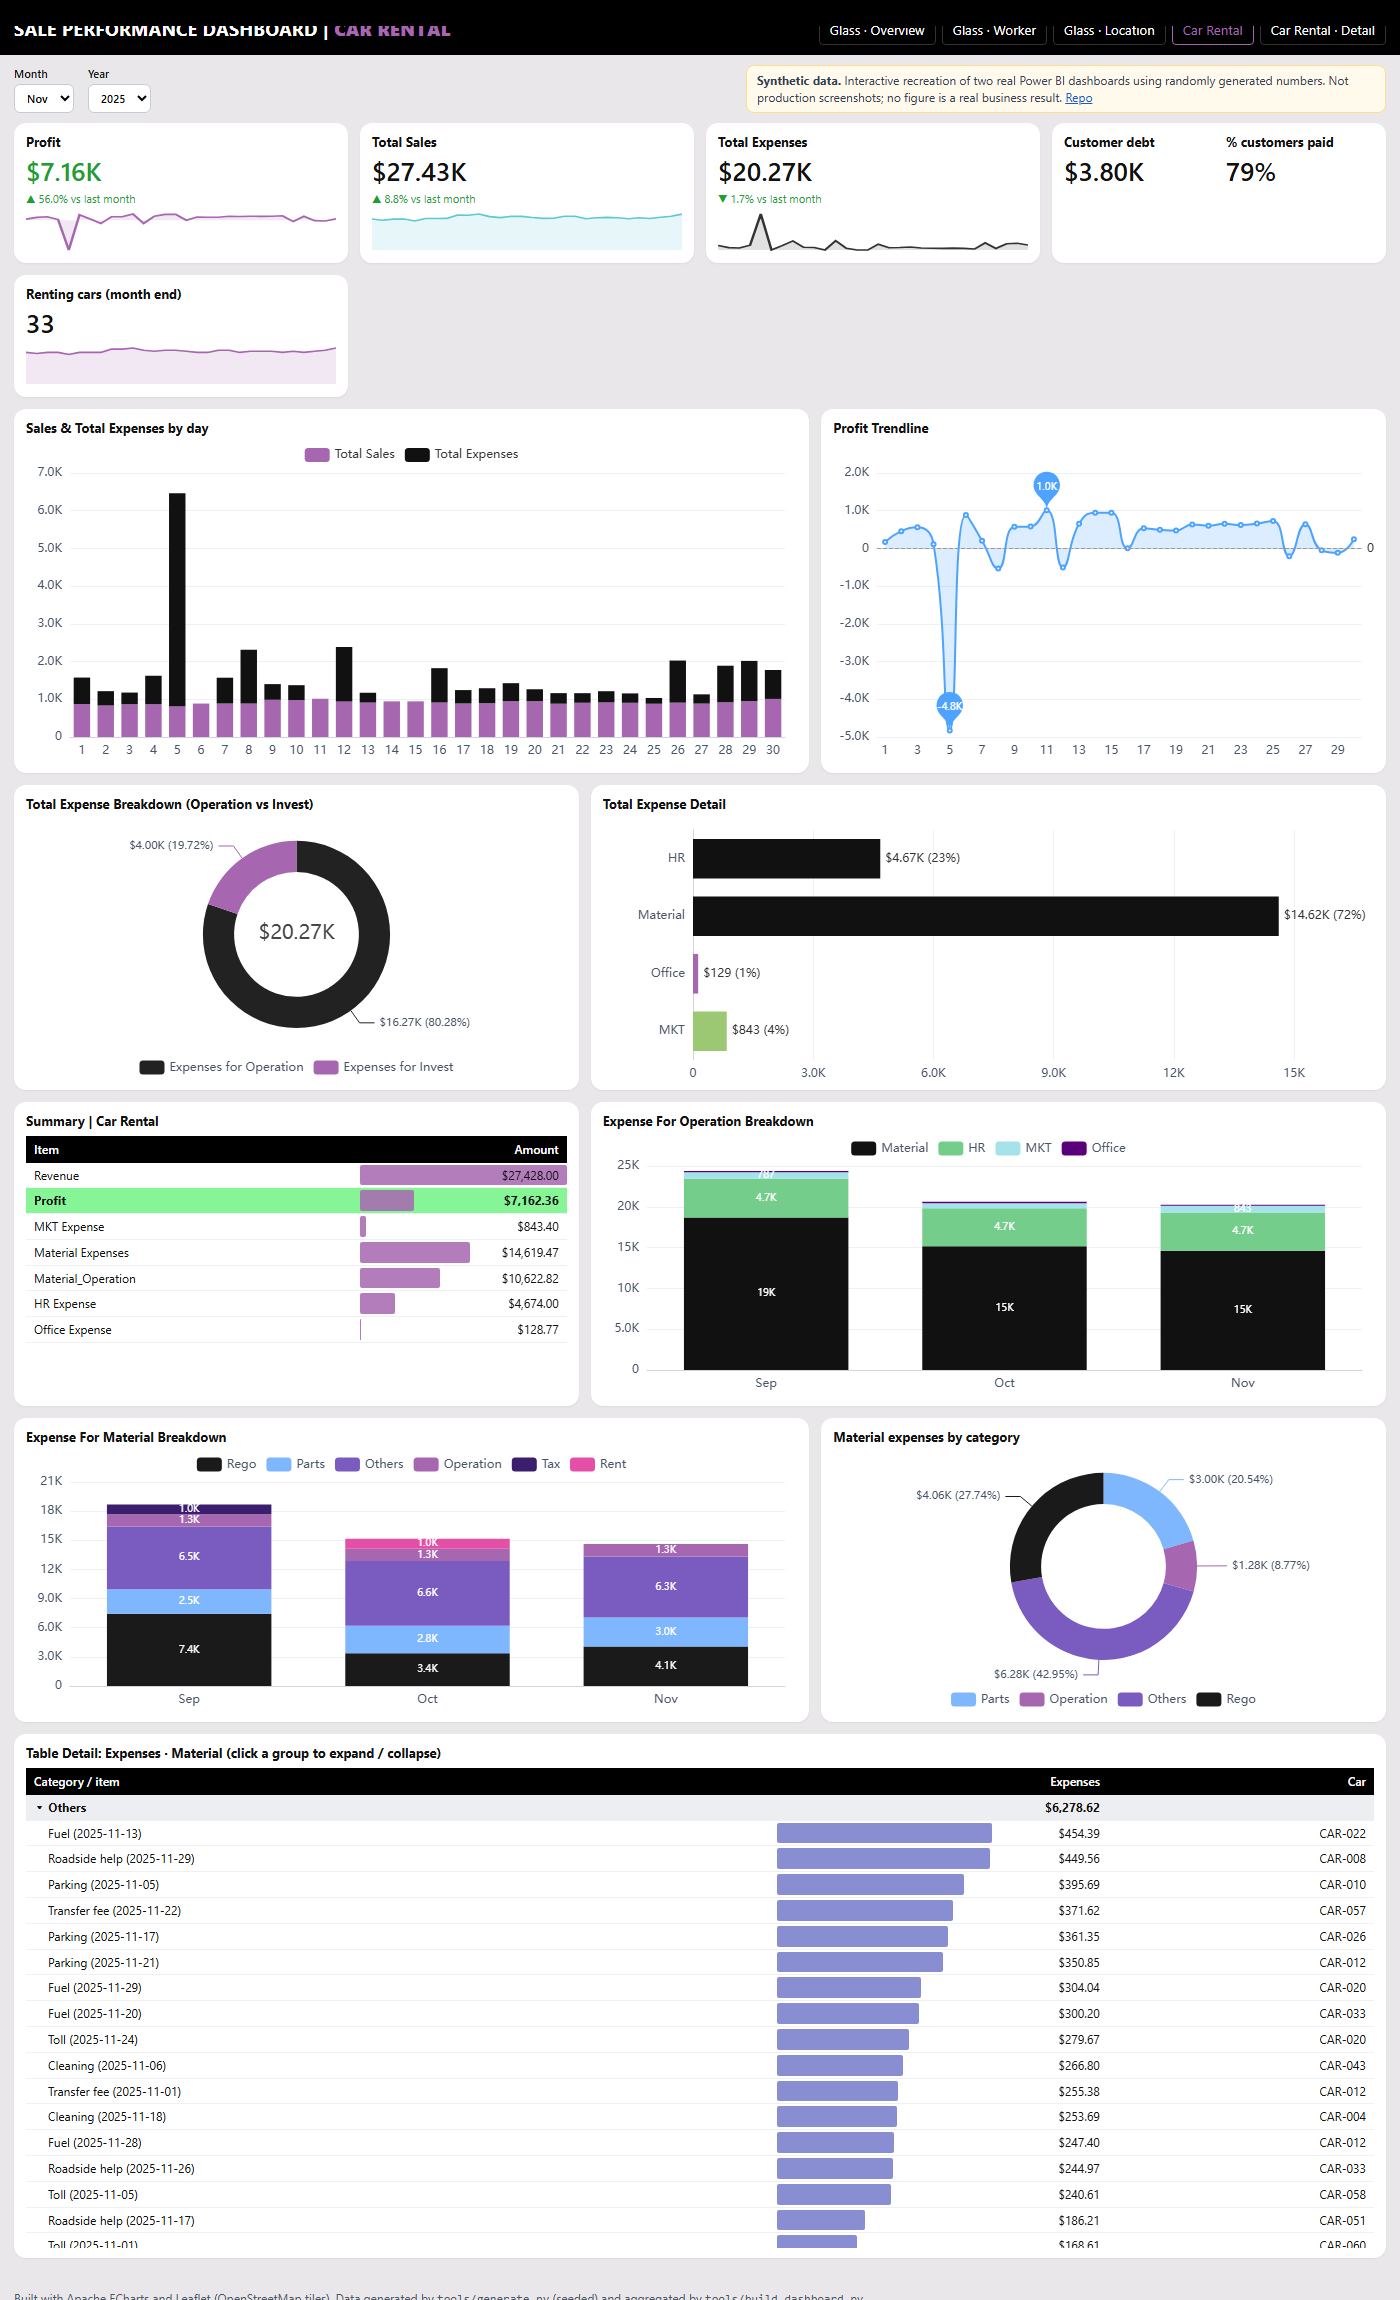
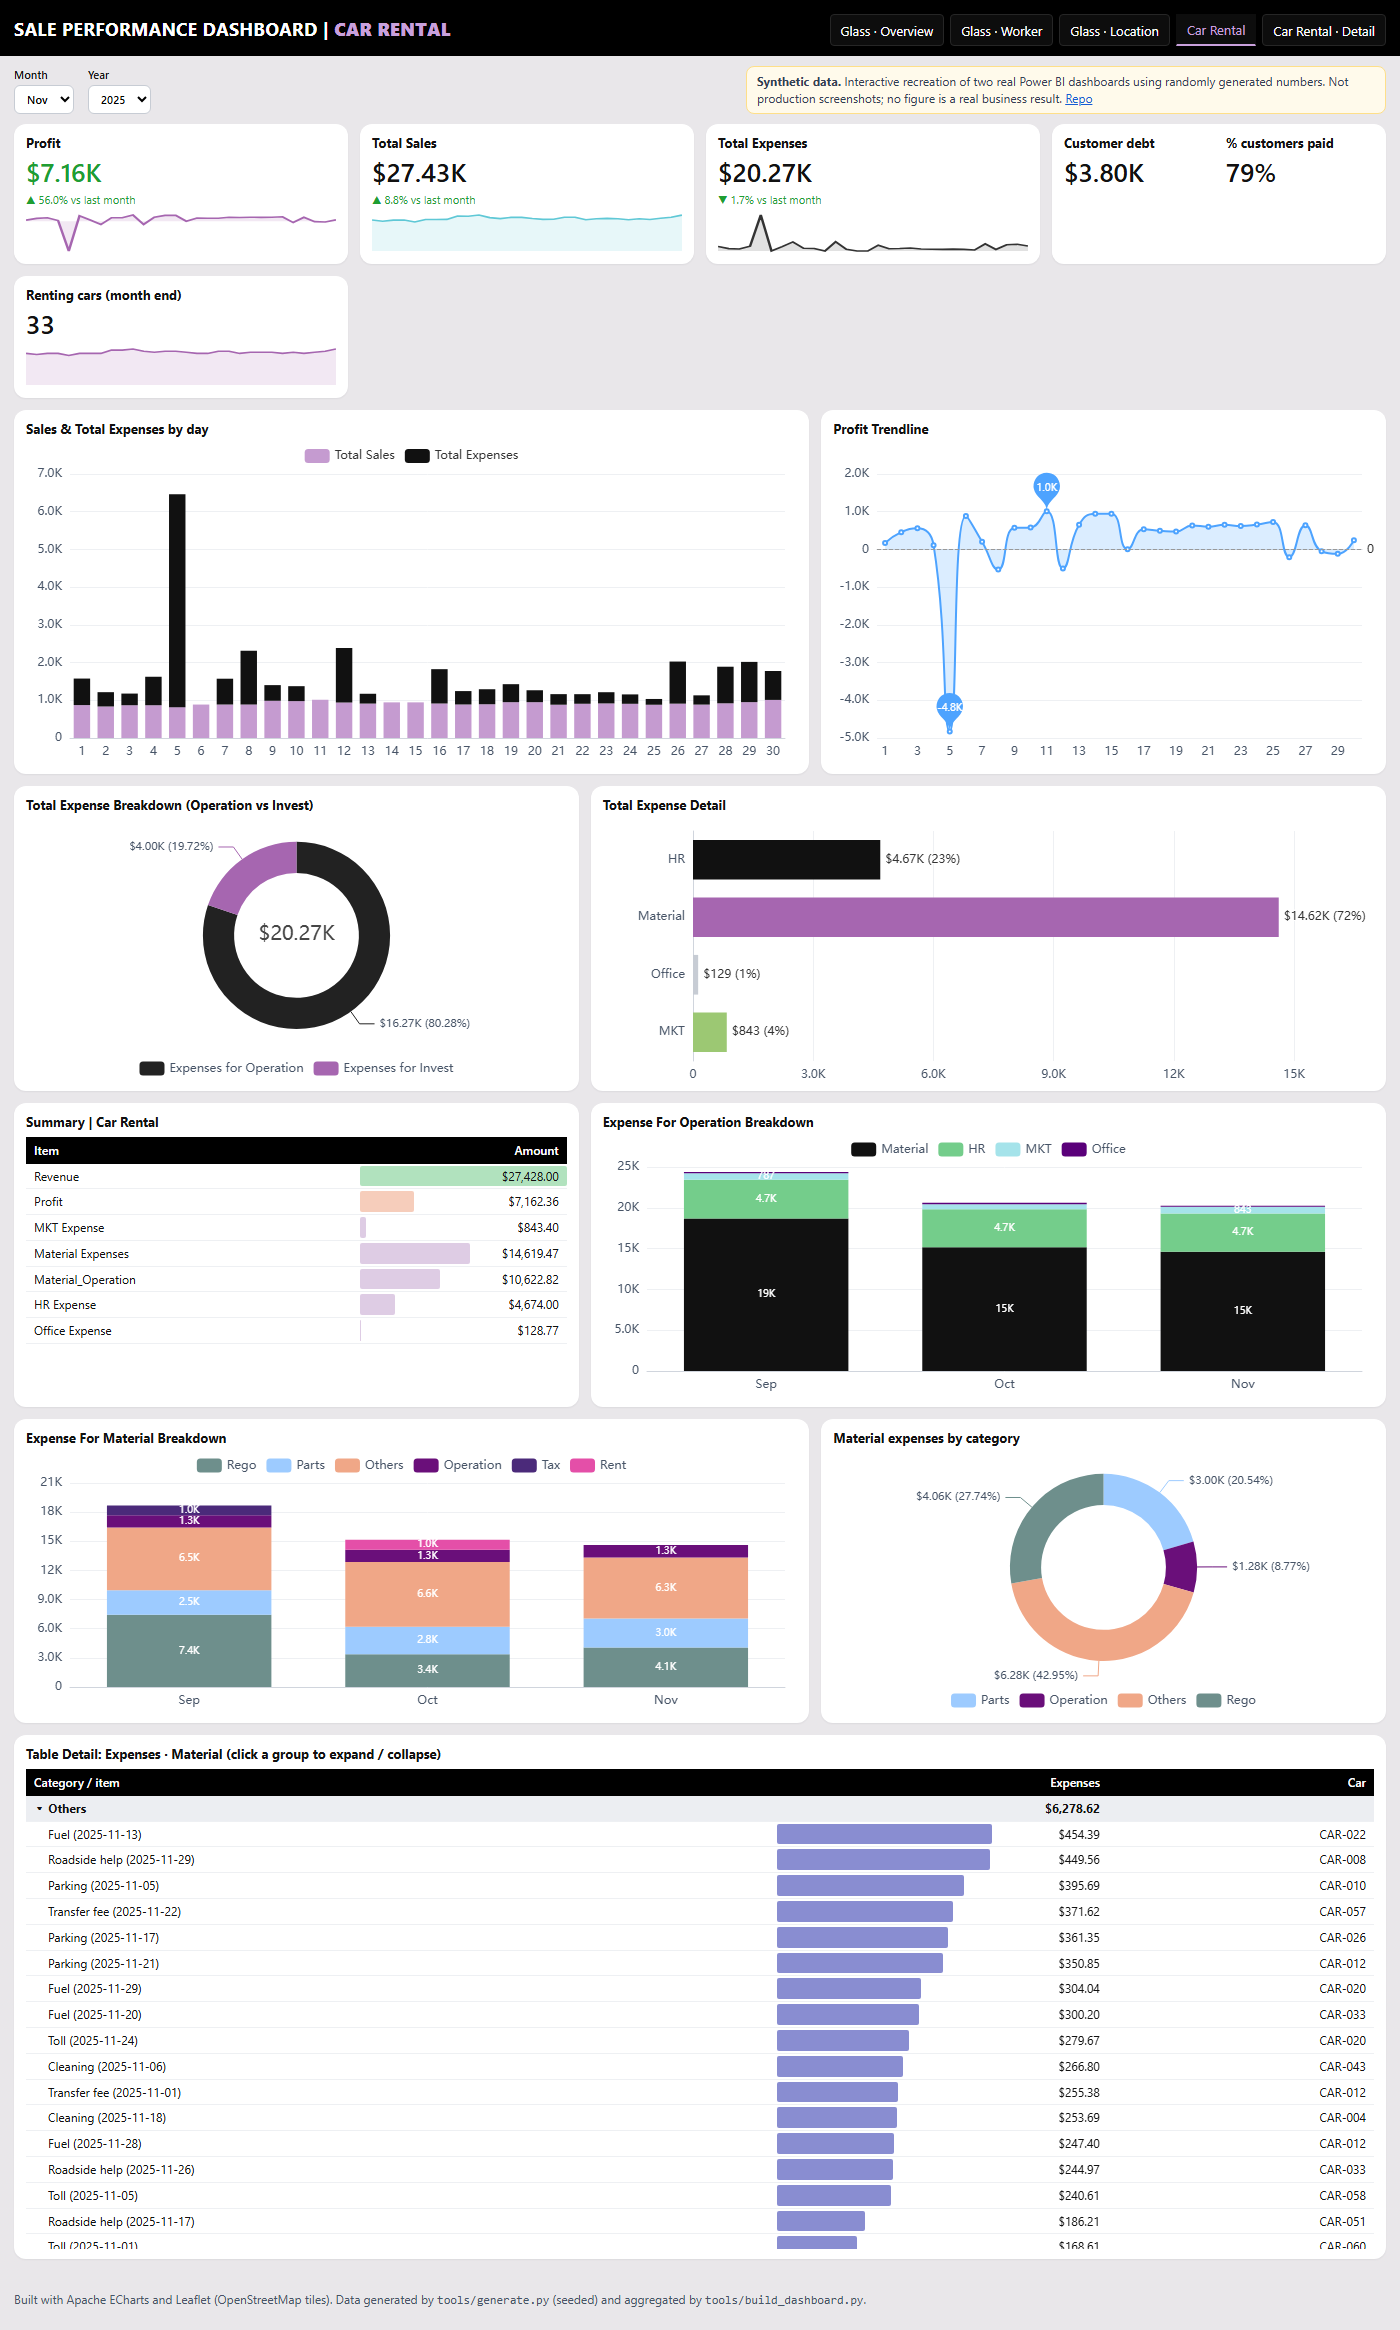
Match real Power BI color scheme: glass sidebar/blue-grey theme, car rental purple/black palette; fix header scroll

diff --git a/docs/index.html b/docs/index.html
@@ -10,14 +10,24 @@
   :root{--ink:#111;--muted:#667085;--line:#e4e7ec;--card:#fff;--accent:#ff5500;--page:#c9d6df;--good:#1f9e32;--bad:#d92d20}
   body.t-car{--accent:#a666b0;--page:#e9e7ea}
   *{box-sizing:border-box}
-  html{background:#000}
-  body{margin:0;background:var(--page);color:var(--ink);font:13px/1.4 "Segoe UI",system-ui,-apple-system,Roboto,sans-serif}
+  body{margin:0;min-height:100vh;background:var(--page);color:var(--ink);font:13px/1.4 "Segoe UI",system-ui,-apple-system,Roboto,sans-serif}
   .top{background:#000;color:#fff;padding:14px 14px 10px;display:flex;flex-wrap:wrap;gap:10px;align-items:center;justify-content:space-between}
   .top h1{margin:0;font-size:18px;letter-spacing:.3px;font-weight:700}
   .top h1 b{color:var(--accent)}
   .nav{display:flex;gap:6px;flex-wrap:wrap}
   .nav button{background:#000;color:#fff;border:1px solid #333;border-radius:4px;padding:6px 10px;font:600 12px inherit;font-family:inherit;cursor:pointer}
   .nav button[aria-selected="true"]{color:var(--accent);border-color:var(--accent)}
+  body.t-car{--accent:#c9a0dc}
+  body.t-car .nav button{background:#0d0d0d;border-color:#262626;font-size:13px}
+  body.t-car .nav button[aria-selected="true"]{border-color:#0d0d0d;border-bottom:2px solid #c9a0dc;border-radius:0}
+  .side{display:none}
+  body.t-glass .side{display:flex;position:fixed;left:0;top:0;bottom:0;width:54px;background:#000;flex-direction:column;align-items:center;gap:16px;padding-top:78px;z-index:5}
+  .side button{width:38px;height:38px;border-radius:10px;border:0;cursor:pointer;display:grid;place-items:center;padding:0}
+  .side button[aria-selected="true"]{outline:2px solid #fff;outline-offset:1px}
+  body.t-glass .top,body.t-glass .bar,body.t-glass .wrap,body.t-glass footer{margin-left:54px}
+  body.t-glass .top{background:transparent;color:#111;padding:14px 14px 0}
+  body.t-glass .nav button{background:#fff;color:#111;border-color:#b5c3cd}
+  body.t-glass .nav button[aria-selected="true"]{background:#111;color:#fff;border-color:#111}
   .bar{display:flex;flex-wrap:wrap;gap:14px;align-items:end;justify-content:space-between;padding:10px 14px}
   .bar .f{display:flex;gap:14px;align-items:end}
   .bar label{display:flex;flex-direction:column;font-size:11px;font-weight:600;gap:2px}
@@ -53,6 +63,11 @@
 </style>
 </head>
 <body class="t-glass">
+<div class="side" role="tablist" aria-label="Glass pages">
+  <button data-p="g-over" title="Overview" style="background:#7a5c4b" aria-selected="true"><svg width="20" height="20" viewBox="0 0 24 24" fill="none" stroke="#fff" stroke-width="1.8"><rect x="5" y="3" width="14" height="18" rx="2"/><path d="M9 8h6M9 12h6M9 16h4"/></svg></button>
+  <button data-p="g-loc" title="Location" style="background:#6b8f4e" aria-selected="false"><svg width="20" height="20" viewBox="0 0 24 24" fill="none" stroke="#fff" stroke-width="1.8"><path d="M3 11l9-7 9 7v9H3z"/><path d="M10 20v-6h4v6"/></svg></button>
+  <button data-p="g-work" title="Worker" style="background:#51697f" aria-selected="false"><svg width="20" height="20" viewBox="0 0 24 24" fill="none" stroke="#fff" stroke-width="1.8"><circle cx="12" cy="8" r="4"/><path d="M4 21c1-5 4-7 8-7s7 2 8 7"/></svg></button>
+</div>
 <div class="top">
   <h1 id="title">SALES PERFORMANCE DASHBOARD | <b>OVERVIEW</b></h1>
   <div class="nav" role="tablist">
@@ -201,7 +216,7 @@ function tbl(cols,rows,o){
   o=o||{};var mx={};cols.forEach(function(c,i){if(c.bar){mx[i]=Math.max.apply(null,rows.map(function(r){return Math.abs(r.v[i])||0;}).concat([1e-9]));}});
   var h="<table><thead><tr>"+cols.map(function(c,i){return '<th data-i="'+i+'">'+c.t+"</th>";}).join("")+"</tr></thead><tbody>";
   rows.forEach(function(r){h+="<tr"+(r.cls?' class="'+r.cls+'"':"")+(r.attr||"")+">"+cols.map(function(c,i){var v=r.v[i],s=c.f?c.f(v,r):v;
-    if(c.bar){var w=Math.min(100,Math.abs(v)/mx[i]*100);return '<td class="bar2"><i style="width:'+w.toFixed(1)+"%;background:"+(v<0?"#f7c6b3":c.bar)+'"></i><span>'+s+"</span></td>";}
+    if(c.bar){var w=Math.min(100,Math.abs(v)/mx[i]*100);return '<td class="bar2"><i style="width:'+w.toFixed(1)+"%;background:"+(v<0?"#f7c6b3":(r.bc||c.bar))+'"></i><span>'+s+"</span></td>";}
     return "<td>"+s+"</td>";}).join("")+"</tr>";});
   return h+"</tbody></table>";
 }
@@ -259,7 +274,7 @@ function renderGOver(m){
   drawMap("g-map1",m);
   var from=Math.max(1,m-5),cats=[],cl=["COG","Worker Salary","Sales Salary","Promo","Warehouse","Back Office","Loss","MKT","Office VN"];
   for(var i=from;i<=m;i++)cats.push(MN[i-1]);
-  stacked("g-expbr",cats,cl.map(function(k){var a=[];for(var i=from;i<=m;i++)a.push(Math.round((GEC[i]||{})[k]||0));return [k,a];}),["#1a1a1a","#326a96","#7fa8c7","#ff5500","#9aa3b5","#c7ccd4","#e4572e","#12b206","#f2c94c"]);
+  stacked("g-expbr",cats,cl.map(function(k){var a=[];for(var i=from;i<=m;i++)a.push(Math.round((GEC[i]||{})[k]||0));return [k,a];}),["#161616","#0e4a7a","#d6d6d6","#ff7733","#7a7a7a","#19a803","#5f8fb3","#bdbdbd","#f2c94c"]);
   var pm=GP[m]||{},names=Object.keys(pm).sort(function(a,b){return pm[b].s-pm[a].s;});
   donut("g-promo",names.map(function(k){return {name:k,value:+pm[k].s.toFixed(2)};}),null,[ORANGE,BLACK,"#7a7a7a","#bdbdbd","#e0e0e0","#326a96"]);
   $("g-promotbl").innerHTML=tbl([{t:"Promotion"},{t:"Number Promo"},{t:"Promo Expenses",bar:ORANGE,f:function(v){return usd(v,true);}},{t:"Cost",f:function(v){return usd(v,true);}},{t:"Total Sales",bar:ORANGE,f:function(v){return usd(v,true);}},{t:"Profit",bar:"#6f95b3",f:function(v){return usd(v,true);}}],
@@ -316,7 +331,7 @@ C.exp.forEach(function(r){var m=mo(r[0]);add(CEX,r[0],r[5]);CG[m]=CG[m]||{};add(
   CT[m]=CT[m]||{};add(CT[m],r[6],r[5]);});
 C.events.forEach(function(r){var m=mo(r[0]);CEVM[m]=CEVM[m]||[0,0];CEVM[m][0]+=r[1];CEVM[m][1]+=r[2];});
 function cMonth(m){var s=dayArr(CRV,m),e=dayArr(CEX,m),p=s.map(function(x,i){return x-e[i];});return {s:s,e:e,p:p,r:dayArr(CRT,m),S:sum(s),E:sum(e),P:sum(p)};}
-var CCOL={Rego:"#1a1a1a",Parts:"#7fb7ff",Others:"#7a5cc0",Operation:"#a666b0",Tax:"#3b1e6e",Rent:"#e44fa8"};
+var CCOL={Rego:"#6e8f8c",Parts:"#9dcbff",Others:"#f0a787",Operation:"#6a0f7a",Tax:"#4b2a7a",Rent:"#e44fa8"};
 function renderCOver(m){
   var c=cMonth(m),p=m>1?cMonth(m-1):null,days=[];for(var d=1;d<=dim(m);d++)days.push(d);
   var db=C.debt[m-1],rent=c.r[c.r.length-1];
@@ -326,7 +341,7 @@ function renderCOver(m){
     kpi(3,"Total Expenses",usd(c.E),p?dlt(c.E,p.E):null,false,c.e,"#333")+
     '<div class="card kpi c3 two"><div><div class="l">Customer debt</div><div class="v">'+usd(db[1])+'</div></div><div><div class="l">% customers paid</div><div class="v">'+Math.round(db[2]*100)+"%</div></div></div>"+
     kpi(3,"Renting cars (month end)",rent,null,true,c.r,PURPLE);
-  opt("c-salesexp",{tooltip:{trigger:"axis",valueFormatter:function(v){return usd(v,true);}},legend:{top:0},color:[PURPLE,"#111"],grid:GR,xAxis:xcat(days),yAxis:yval(),
+  opt("c-salesexp",{tooltip:{trigger:"axis",valueFormatter:function(v){return usd(v,true);}},legend:{top:0},color:["#c59bd0","#111"],grid:GR,xAxis:xcat(days),yAxis:yval(),
     series:[{name:"Total Sales",type:"bar",stack:"x",data:c.s.map(Math.round)},{name:"Total Expenses",type:"bar",stack:"x",data:c.e.map(Math.round)}]});
   opt("c-profit",{tooltip:{trigger:"axis",valueFormatter:function(v){return usd(v,true);}},grid:GR,xAxis:xcat(days),yAxis:yval(),
     series:[{type:"line",smooth:true,data:c.p.map(Math.round),itemStyle:{color:"#4da3ff"},areaStyle:{color:"#4da3ff",opacity:.2},markLine:{silent:true,symbol:"none",data:[{yAxis:0}],lineStyle:{color:"#999"}},markPoint:{data:[{type:"max"},{type:"min"}],symbolSize:44,label:{formatter:function(q){return kk(q.value);},fontSize:10,color:"#fff"},itemStyle:{color:"#4da3ff"}}}]});
@@ -334,10 +349,10 @@ function renderCOver(m){
   donut("c-donut",[{name:"Expenses for Operation",value:+(ty.Operation||0).toFixed(2)},{name:"Expenses for Invest",value:+(ty.Invest||0).toFixed(2)}],usd(c.E),["#222",PURPLE]);
   var g=CG[m]||{},tot=c.E||1,gl=["HR","Material","Office","MKT"];
   opt("c-detailbars",{tooltip:{valueFormatter:function(v){return usd(v,true);}},grid:{left:90,right:80,top:10,bottom:20},xAxis:yval(),yAxis:{type:"category",data:gl.slice().reverse(),axisLabel:{color:"#475467"},axisLine:AX.axisLine,axisTick:AX.axisTick},
-    series:[{type:"bar",data:gl.slice().reverse().map(function(k,i){return {value:Math.round(g[k]||0),itemStyle:{color:[ "#9cc873",PURPLE,"#111","#111"][["MKT","Office","Material","HR"].indexOf(k)<0?0:["MKT","Office","Material","HR"].indexOf(k)]}};}),
+    series:[{type:"bar",data:gl.slice().reverse().map(function(k,i){return {value:Math.round(g[k]||0),itemStyle:{color:{HR:"#111",Material:"#a666b0",Office:"#c7ccd4",MKT:"#9cc873"}[k]}};}),
       label:{show:true,position:"right",formatter:function(q){return usd(q.value)+" ("+(q.value/tot*100).toFixed(0)+"%)";}}}]});
   var mt=CC[m]||{},rows=[["Revenue",c.S],["Profit",c.P],["MKT Expense",g.MKT||0],["Material Expenses",g.Material||0],["  Material_Operation",(CITEMS[m]||[]).filter(function(r){return r[6]==="Operation";}).reduce(function(a,r){return a+r[5];},0)],["HR Expense",g.HR||0],["Office Expense",g.Office||0]];
-  $("c-summary").innerHTML=tbl([{t:"Item"},{t:"Amount",bar:PURPLE,f:function(v){return usd(v,true);}}],rows.map(function(r){return {v:r,cls:r[0]==="Profit"?"hl":""};}));
+  $("c-summary").innerHTML=tbl([{t:"Item"},{t:"Amount",bar:"#d8c3df",f:function(v){return usd(v,true);}}],rows.map(function(r){return {v:r,bc:r[0]==="Revenue"?"#a3ddb3":r[0]==="Profit"?"#f5c4af":null};}));
   var from=Math.max(1,m-2),cats=[];for(var i=from;i<=m;i++)cats.push(MN[i-1]);
   stacked("c-opbr",cats,["Material","HR","MKT","Office"].map(function(k){var a=[];for(var i=from;i<=m;i++)a.push(Math.round((CG[i]||{})[k]||0));return [k,a];}),["#111","#74cd8b","#a5e3ea","#5a007a"]);
   stacked("c-matbr",cats,Object.keys(CCOL).map(function(k){var a=[];for(var i=from;i<=m;i++)a.push(Math.round((CC[i]||{})[k]||0));return [k,a];}),Object.keys(CCOL).map(function(k){return CCOL[k];}));
@@ -370,7 +385,7 @@ function renderCDet(m){
   var top=rows.slice().sort(function(a,b){return b[7]-a[7];}).slice(0,10).reverse();
   opt("d-top",{tooltip:{valueFormatter:function(v){return usd(v,true);}},grid:{left:70,right:20,top:10,bottom:20},xAxis:yval(),yAxis:{type:"category",data:top.map(function(r){return r[0];}),axisLabel:{color:"#475467"}},series:[{type:"bar",data:top.map(function(r){return Math.round(r[7]);}),itemStyle:{color:GREEN}}]});
   opt("d-flow",{tooltip:{trigger:"axis"},legend:{top:0},color:[GREEN,RED],grid:GR,xAxis:xcat(MN),yAxis:yval(),series:[{name:"New rent",type:"bar",data:MN.map(function(_,i){return (CEVM[i+1]||[0,0])[0];})},{name:"Returned",type:"bar",data:MN.map(function(_,i){return (CEVM[i+1]||[0,0])[1];})}]});
-  var f=function(v){return usd(v,true);},cols=[{t:"Plate"},{t:"Make"},{t:"Status"},{t:"Buying price",f:f},{t:MN[m-1]+" revenue",bar:PURPLE,f:f},{t:"Revenue (year)",bar:PURPLE,f:f},{t:"Material exp. (year)",f:f},{t:"Profit (year)",bar:GREEN,f:function(v){return '<span class="'+(v>=0?"up":"down")+'">'+usd(v,true)+"</span>";}}];
+  var f=function(v){return usd(v,true);},cols=[{t:"Plate"},{t:"Make"},{t:"Status"},{t:"Buying price",f:f},{t:MN[m-1]+" revenue",bar:PURPLE,f:f},{t:"Revenue (year)",bar:PURPLE,f:f},{t:"Material exp. (year)",f:f},{t:"Profit (year)",bar:"#b9e3c2",f:function(v){return '<span class="'+(v>=0?"up":"down")+'">'+usd(v,true)+"</span>";}}];
   rows.sort(function(a,b){var u=a[dSort.k],v=b[dSort.k];return (u<v?-1:u>v?1:0)*dSort.dir;});
   $("d-table").innerHTML=tbl(cols,rows.map(function(r){return {v:r};}));
   Array.prototype.forEach.call($("d-table").querySelectorAll("th"),function(th){th.onclick=function(){var i=+th.getAttribute("data-i");if(dSort.k===i)dSort.dir=-dSort.dir;else{dSort.k=i;dSort.dir=-1;}renderCDet(m);};});
@@ -388,7 +403,7 @@ function render(){
 function show(p){
   cur=p;Object.keys(PAGES).forEach(function(k){$(k).hidden=k!==p;});
   document.body.className=PAGES[p][0]==="car"?"t-car":"t-glass";$("title").innerHTML=PAGES[p][1];
-  Array.prototype.forEach.call(document.querySelectorAll(".nav button"),function(b){b.setAttribute("aria-selected",b.getAttribute("data-p")===p);});
+  Array.prototype.forEach.call(document.querySelectorAll(".nav button,.side button"),function(b){b.setAttribute("aria-selected",b.getAttribute("data-p")===p);});
   try{history.replaceState(null,"","#"+p);}catch(e){}
   render();
 }
@@ -396,9 +411,11 @@ $("month").innerHTML=MN.map(function(n,i){return '<option value="'+(i+1)+'">'+n+
 var sts=Object.keys(C.cars.reduce(function(o,c){o[c[3]]=1;return o;},{})).sort();
 $("d-filter").innerHTML='<option value="ALL">All statuses</option>'+sts.map(function(s){return "<option>"+s+"</option>";}).join("");
 $("month").onchange=render;$("d-filter").onchange=render;
-Array.prototype.forEach.call(document.querySelectorAll(".nav button"),function(b){b.onclick=function(){show(b.getAttribute("data-p"));};});
+Array.prototype.forEach.call(document.querySelectorAll(".nav button,.side button"),function(b){b.onclick=function(){show(b.getAttribute("data-p"));};});
 window.addEventListener("resize",function(){Object.keys(charts).forEach(function(k){if(charts[k])charts[k].resize();});});
 var h=location.hash.slice(1);show(PAGES[h]?h:"g-over");
+// the #page hash matches a section id, so the browser would scroll past the header: reset it
+window.scrollTo(0,0);setTimeout(function(){window.scrollTo(0,0);},0);window.addEventListener("load",function(){window.scrollTo(0,0);});
 })();
 </script>
 </body>
